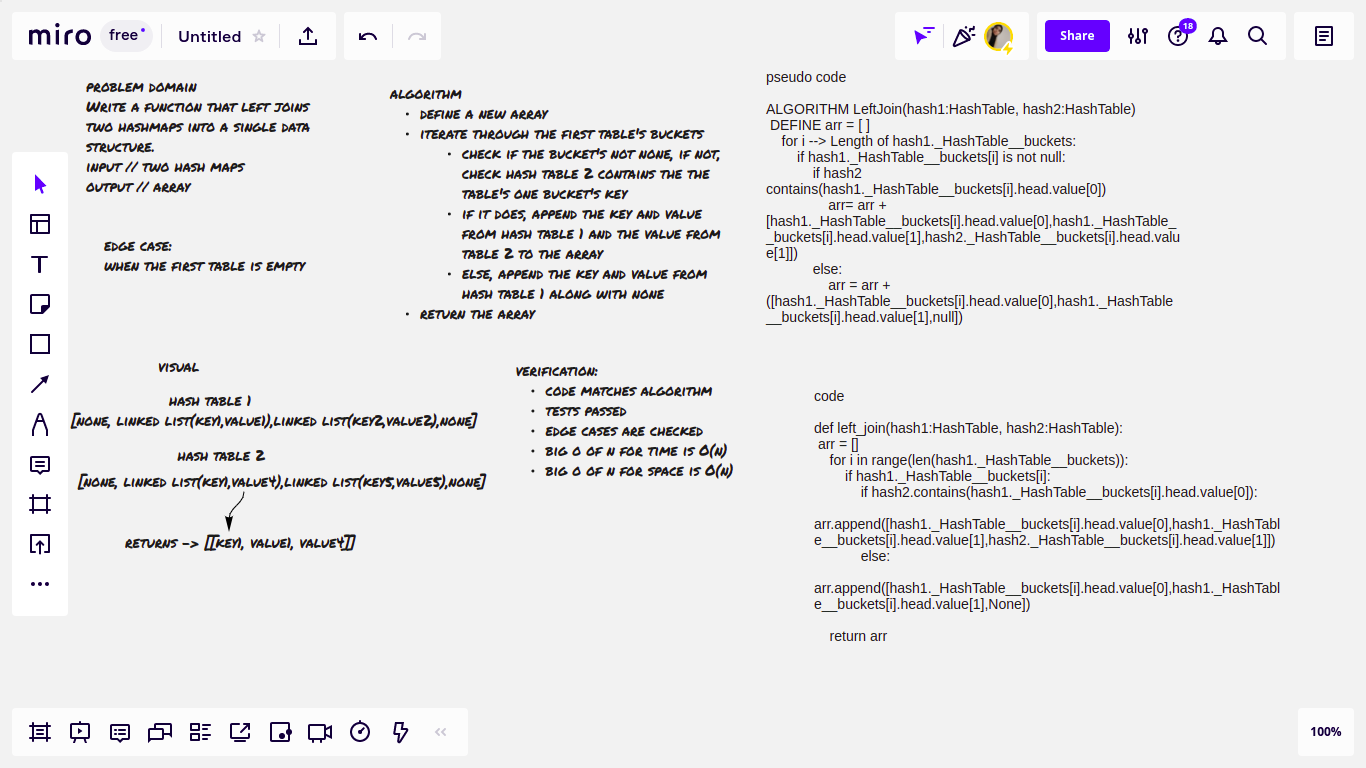
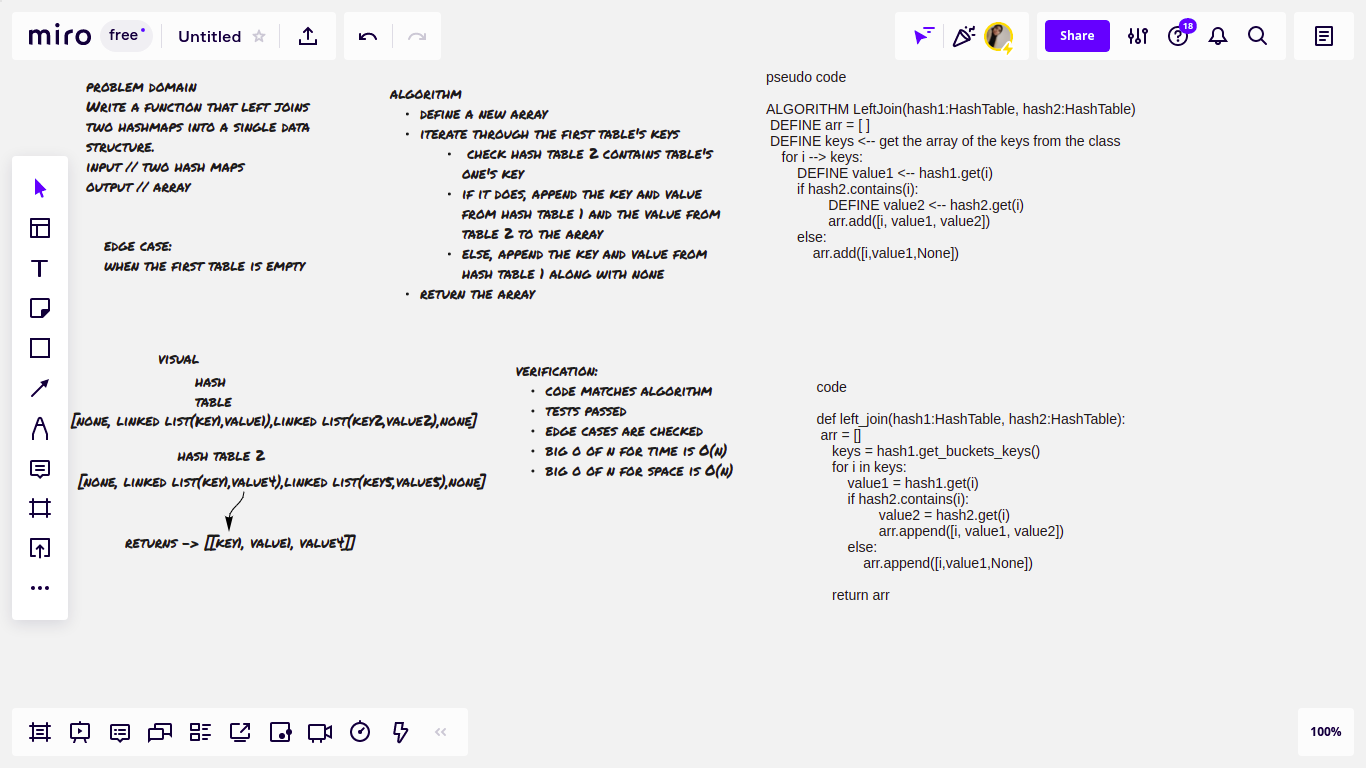
fix left join

diff --git a/dd.py b/dd.py
@@ -1,0 +1,184 @@
+class Node:
+    def __init__(self, value, next=None):
+        self.value = value
+        self.next = next
+
+
+class LinkedList:
+    def __init__(self):
+        self.head = None
+
+    def insert(self, value):
+        self.head = Node(value, self.head)
+
+    def includes(self, value):
+        current = self.head
+
+        while current:
+            if current.value == value:
+                return True
+
+            current = current.next
+
+        return False
+
+    def to_string(self):
+        current = self.head
+
+        the_stringified_result = ''
+
+        while current:
+
+            the_stringified_result += "{ " + str(current.value) + " } -> "
+            current = current.next
+        the_stringified_result = the_stringified_result+"NULL"
+        return the_stringified_result
+
+    def append (self, value):
+        current = self.head
+        while current.next:
+            node = Node(value, None)
+            current = current.next
+        current.next = node
+    def insert_before(self, value1, value2):
+        current = self.head
+        if current:
+            if current.value == value2:
+                self.head = Node(value1,self.head)
+
+            else:
+              while current.next:
+                  if current.next.value ==value2:
+                      node = Node(value1, current.next)
+                      current.next = node
+                      break
+                  current = current.next
+    def insert_after(self, value1, value2):
+        current = self.head
+        while current.next:
+            if current.value == value2:
+                break
+            current = current.next
+        node = Node(value1, current.next)
+        current.next = node
+    def kth_value(self, index):
+        current = self.head
+        length = -1
+        while current:
+            length += 1
+            current = current.next
+        val = ''
+        current=self.head
+        for i in range(length):
+            current = current.next
+            if length-i-1 == index:
+                val=current.value
+                break
+        return val
+
+def mergeLists(list1, list2):
+    node1=0
+    current = list1.head
+    current2 = list2.head
+    if not list1.head:
+        return list2.to_string()
+    if not list2.head:
+        return list1.to_string()
+
+    while current and current2:
+
+        node1 = current2
+        current2 = current2.next
+        node1.next = current.next
+        current.next = node1
+
+        current = current.next.next
+
+    # if current2:
+    #     current = list1.head
+
+    #     while current.next:
+    #         current = current.next
+    #     current.next = current2.head
+
+    #     current2.head = None
+
+    return list1
+
+def reversed_list(ll:LinkedList):
+      current = ll.head
+      previous = None
+      while current:
+        next = current.next
+        current.next  = previous
+        previous = current
+        current = next
+      ll.head = previous
+
+
+      return ll.to_string()
+
+def isPalindrome(ll:LinkedList):
+  res = False
+  string = ''
+  current = ll.head
+  while current:
+    string += f" {current.value} "
+    current = current.next
+  if string == string[::-1]:
+    res = True
+  return res
+
+def duplicate (ll:LinkedList):
+  current = ll.head
+  while current.next:
+    print(current.value)
+    if current.value == current.next.value:
+      new_current = current.next.next
+      current.next = None
+      current.next = new_current
+    else:
+      current = current.next
+  return ll
+
+
+
+
+
+
+
+
+
+
+
+
+
+if __name__ == "__main__":
+    ll = LinkedList()
+    ll.insert(4)
+    ll.insert(3)
+    ll.insert(2)
+    ll.insert(2)
+    ll.insert(1)
+    ll2 = LinkedList()
+    ll2.insert(1)
+    ll2.insert(2)
+    ll2.insert(17)
+    ll2.insert(23)
+    # ll2.insert(7)
+    rr = LinkedList()
+    rr.insert('m')
+    rr.insert('o')
+    rr.insert('o')
+    rr.insert('m')
+    # print(reversed_list(ll))
+    # print('to string', rr.to_string())
+    # print('rrrrr',reversed_list(rr))
+    # print('ispalindrome', isPalindrome(rr))
+    # print(ll.to_string())
+    # print(ll2.to_string())
+    # print(mergeLists(ll, ll2).to_string())
+    print(duplicate(ll).to_string())
+
+
+

diff --git a/python/hashtables/hashtables_left_join/hashtables_left_join.py b/python/hashtables/hashtables_left_join/hashtables_left_join.py
@@ -85,19 +85,27 @@ class HashTable:
                 current = current.next
         return False
 
+    def get_buckets_keys(self):
+        arr = []
+        for i in self.__buckets:
+            if i:
+                arr.append(i.head.value[0])
+        return arr
+
+
+
 def left_join(hash1:HashTable, hash2:HashTable):
     arr = []
-    for i in range(len(hash1._HashTable__buckets)):
-        if hash1._HashTable__buckets[i]:
-            print(i)
-            if hash2.contains(hash1._HashTable__buckets[i].head.value[0]):
-                arr.append([hash1._HashTable__buckets[i].head.value[0],hash1._HashTable__buckets[i].head.value[1],hash2._HashTable__buckets[i].head.value[1]])
-            else:
-                arr.append([hash1._HashTable__buckets[i].head.value[0],hash1._HashTable__buckets[i].head.value[1],None])
+    keys = hash1.get_buckets_keys()
+    for i in keys:
+        value1 = hash1.get(i)
+        if hash2.contains(i):
+                value2 = hash2.get(i)
+                arr.append([i, value1, value2])
+        else:
+            arr.append([i,value1,None])
 
     return arr
-
-
 
 
 

diff --git a/python/hashtables/hashtables_left_join/README.md b/python/hashtables/hashtables_left_join/README.md
@@ -9,4 +9,5 @@ Write a function that LEFT JOINs two hashmaps into a single data structure.
 - big O of n for space // O(n) -> linear
 
 ## Solution
-define a new array, iterate through the first table's buckets, check if the bucket's not none, if not, check hash table 2 contains the the table's one bucket's key, if it does, append the key and value from hash table 1 and the value from table 2 to the array. Else, append the key and value from hash table 1 along with none .
+define a new array, iterate through the first table's keys, check hash table 2 contains table's one's key, if it does, append the key and value from hash table 1 and the value from table 2 to the array
+else, append the key and value from hash table 1 along with none
